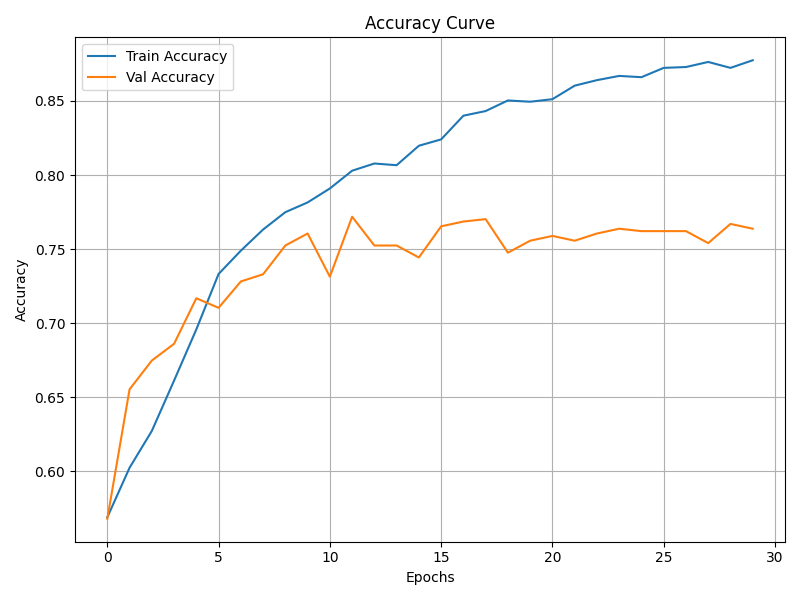
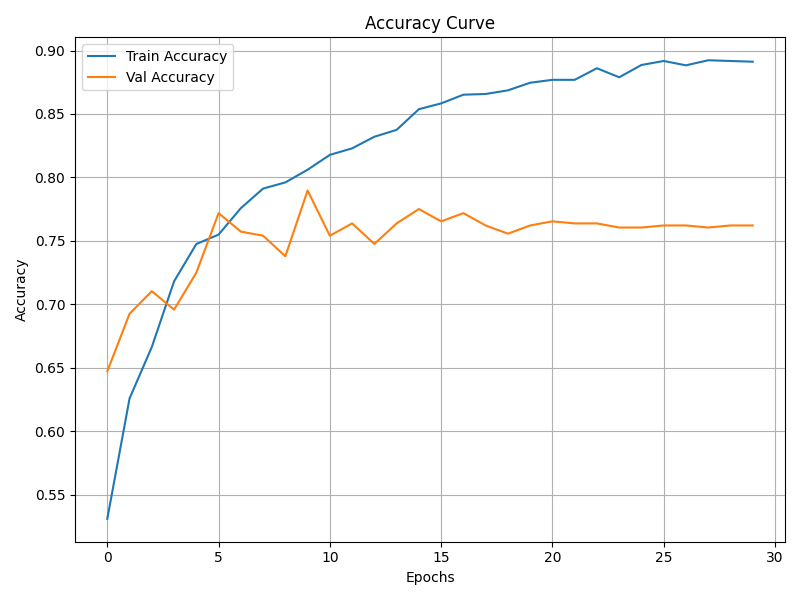
tuned GRU

diff --git a/student/Assignment_3/train_sentiment_gru_classifier.py b/student/Assignment_3/train_sentiment_gru_classifier.py
@@ -102,9 +102,10 @@ print("\n========== Defining GRU Model ==========")
 class GRUClassifier(nn.Module):
     def __init__(self, input_dim, hidden_dim, num_layers, num_classes, dropout=0.5):
         super().__init__()
-        self.gru = nn.GRU(input_dim, hidden_dim, num_layers=num_layers, batch_first=True, dropout=dropout)
+        self.gru = nn.GRU(input_dim, hidden_dim, num_layers=num_layers,
+                          batch_first=True, dropout=dropout, bidirectional=True)
         self.fc = nn.Sequential(
-            nn.Linear(hidden_dim, 64),
+            nn.Linear(hidden_dim * 2, 64),
             nn.ReLU(),
             nn.Dropout(dropout),
             nn.Linear(64, num_classes)
@@ -112,8 +113,8 @@ class GRUClassifier(nn.Module):
     def forward(self, x):
         # x: (batch, seq_len, input_dim)
         _, h_n = self.gru(x)  # h_n: (num_layers, batch, hidden_dim)
-        out = h_n[-1]  # (batch, hidden_dim)
-        return self.fc(out)
+        hidden_out = torch.cat((h_n[-2], h_n[-1]), dim=1)   # bidirectional, (batch, hidden * 2)
+        return self.fc(hidden_out)
 
 input_dim = X_train.shape[2]
 num_classes = len(np.unique(y))
@@ -128,7 +129,7 @@ device = get_device()
 print(f"Using device: {device}")
 os.makedirs("outputs", exist_ok=True)
 model = model.to(device)
-optimizer = optim.AdamW(model.parameters(), lr=0.0001, weight_decay=5e-4)
+optimizer = optim.AdamW(model.parameters(), lr=0.0001, weight_decay=6e-4)
 scheduler = optim.lr_scheduler.ReduceLROnPlateau(optimizer, mode='max', factor=0.5, patience=3)
 counts = [684, 2879, 1363]  # Class counts
 class_weights = 1. / torch.tensor(counts, dtype=torch.float)
